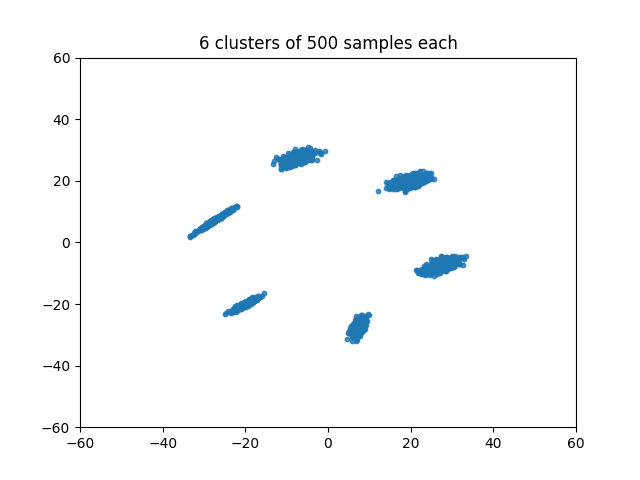
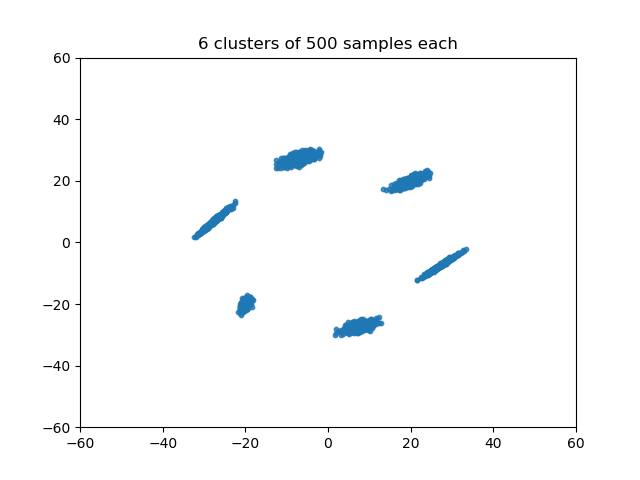
save config Exp45 (WGAN-GP)

diff --git a/simple_gans.py b/simple_gans.py
@@ -3,10 +3,20 @@
 author: Lu Lin
 date: 8/6/2018
 """
-
-
-import numpy as np 
 import os, sys, glob
+import socket
+machine_name = socket.gethostname()
+print("="*50)
+print("Machine name: {}".format(machine_name))
+print("="*50)
+if machine_name == "lulin-QX-350-Series":
+	os.environ["CUDA_VISIBLE_DEVICES"]="0"
+	sys.path.append("/home/lulin/Desktop/Desktop/Python_projets/my_packages")
+else:
+	os.environ["CUDA_VISIBLE_DEVICES"]="1"
+	sys.path.append("/home/lulin/na4/my_packages")
+import numpy as np 
+
 from functools import partial
 import keras
 import keras.backend as K
@@ -117,11 +127,11 @@ class SimpleGANs(_DLalgo):
 		self.algo = algo #"WGAN-GP" # "WGAN", "JS", "Hinge-JS"
 		self.noise_size = 128
 		self.gp_method = "two_sides" # "two_sides" #"one_side"
-		self.singular_value = 1.
+		self.singular_value = 10.
 		self.GRADIENT_PENALTY_WEIGHT = 1. # Exp3 1.0
 	
 		self.critic_steps = 5
-		self.use_He_initialization = True
+		self.use_He_initialization = False
 		self.my_initializer = lambda :he_normal() if self.use_He_initialization else "glorot_uniform" # TODO
 
 		
@@ -208,7 +218,7 @@ class SimpleGANs(_DLalgo):
 				self.Critic.trainable = True
 				self.Generator.trainable = False
 				self.combined_critic.compile(loss=[wasserstein_loss, wasserstein_loss], 
-											optimizer=self.optimizer, 
+											optimizer=self.optimizerD, 
 											metrics=[my_critic_acc])
 			elif self.algo == "WGAN-GP":
 				
@@ -618,27 +628,36 @@ class DataDistribution(object):
 if __name__ == "__main__":
 	print("Start")
 
-
-	gan = SimpleGANs(dim=2, algo="WGAN-GP")
+	# if not os.path.exists("./weights"):
+	# 	os.makedirs("./weights")
+	# if not os.path.exists("./output/figures"):
+	# 	os.makedirs("./output/figures")
+	# if not os.path.exists("./output/history"):
+	# 	os.makedirs("./output/history")
+	ALGO = "WGAN-GP"
+	gan = SimpleGANs(dim=2, algo=ALGO)
 	gan.build_model()
 	# gan.build_model(fromdir="./weights/WGAN-GP/Exp1_bis")
 	gan.summary()
-	# gan.load_data("normal_source.npy", "grid_100.npy", shuffle=True)
-	gan.load_data("normal_source.npy", "6_clusters.npy", shuffle=True)
+	# gan.load_data("./data/normal_source.npy", "./data/grid_100.npy", shuffle=True)
+	# gan.load_data("./data/normal_source.npy", "./data/6_clusters.npy", shuffle=True)
+	gan.load_data("./data/normal_source.npy", "./data/spiral_50.npy", shuffle=True)
 
 
 
 	try:
-		EXP_NUM = "Exp23"
-		gan.write_tensorboard_graph(to_dir="./weights/WGAN-GP/{}/board".format(EXP_NUM), save_png2dir="./weights/WGAN-GP/{}".format(EXP_NUM))
-		gan.reset_history_in_folder("./output/history/WGAN-GP/{}".format(EXP_NUM))
+		EXP_NUM = "Exp45"
+		gan.write_tensorboard_graph(to_dir="./weights/{}/{}/board".format(ALGO, EXP_NUM), 
+			save_png2dir="./weights/{}/{}".format(ALGO, EXP_NUM))
+		gan.reset_history_in_folder("./output/history/{}/{}".format(ALGO, EXP_NUM))
 		gan.train(100000, batch_size=128, 
-			savefig2dir="./output/figures/WGAN-GP/{}".format(EXP_NUM), 
-			savehis2dir="./output/history/WGAN-GP/{}".format(EXP_NUM), 
-			saveWeights2dir="./weights/WGAN-GP/{}".format(EXP_NUM),
-			plot_range=(-60,60))
+			savefig2dir="./output/figures/{}/{}".format(ALGO, EXP_NUM), 
+			savehis2dir="./output/history/{}/{}".format(ALGO, EXP_NUM), 
+			saveWeights2dir="./weights/{}/{}".format(ALGO, EXP_NUM),
+			# plot_range=(-60,60))
+			plot_range=(-120,120))
 	except KeyboardInterrupt:
-		gan.save_model("./weights/WGAN-GP/{}_bis".format(EXP_NUM))
+		gan.save_model("./weights/{}/{}_bis".format(ALGO, EXP_NUM))
 		sys.exit(0)
 
 
@@ -663,16 +682,18 @@ if __name__ == "__main__":
 
 
 	############# Data generation ###############
+	# if not os.path.exists("./data"):
+	# 	os.makedirs("./data")
 	# data = DataDistribution(2)
 	
 	# X = data.create2(500, show=True, seed=17)
-	# np.save("6_clusters.npy", X)
+	# np.save("./data/6_clusters.npy", X)
 
 	# X = data.create3(3000, show=True, seed=17)
-	# np.save("normal_source.npy", X)
+	# np.save("./data/normal_source.npy", X)
 
 	# X = data.create4(50, show=True, seed=17)
-	# np.save("grid_100.npy", X)
+	# np.save("./data/grid_100.npy", X)
 	
 	# X = data.create5(60, show=True, seed=17)
-	# np.save("spiral_50.npy", X)
+	# np.save("./data/spiral_50.npy", X)
